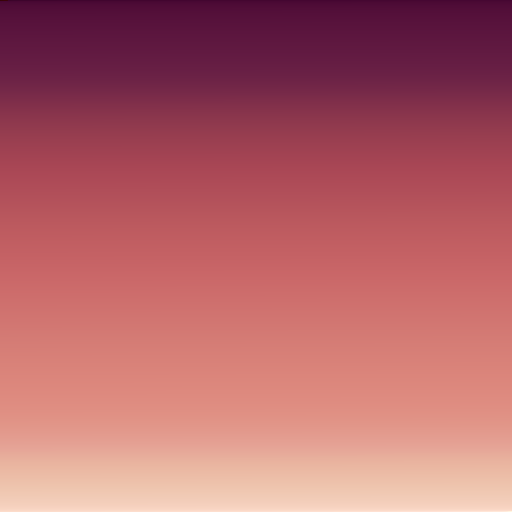
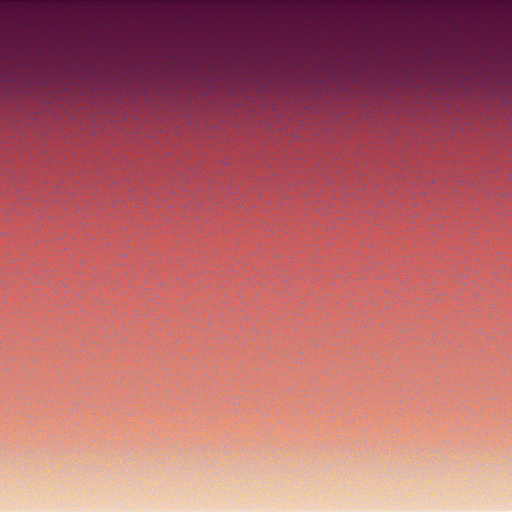
Fix the sumrgb sort algorithm * Update the example image accordingly

diff --git a/sorts.py b/sorts.py
@@ -49,10 +49,10 @@ def sort_by_sumrgb(image):
     Sorts by the sum of red, green, and blue values of the pixels
     Returns the sorted image.
     """
+    # Reshape to 2D array
     flat = numpy.reshape(image, (-1, 1, image.shape[2])).squeeze()
-    sums = numpy.sum(flat, axis=1).reshape((-1, 1))
-    # Sorts using the Decorate-Sort-Undecorate idiom
-    # hstack puts the sum element first
-    sort = numpy.sort(numpy.hstack((sums, flat)), axis=0)
-    final = numpy.delete(sort, numpy.s_[:1:1], axis=1)
-    return numpy.reshape(final, image.shape)
+    # Sum RGB values
+    sums = numpy.sum(image, axis=2).flatten()
+    # Calculate sort indicies then sort by them
+    sort_indices = numpy.argsort(sums)
+    return flat[sort_indices].reshape(image.shape)
